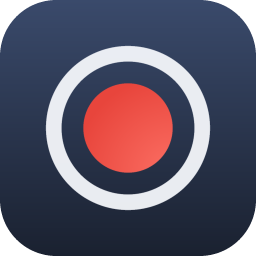
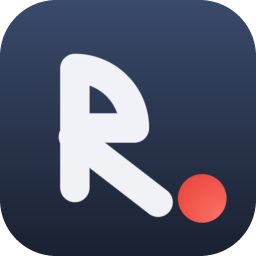
Simple Recorder v1.2.6

Changed region(s): [[0.1562, 0.1562, 0.9062, 0.875]]

diff --git a/AGENTS.md b/AGENTS.md
@@ -26,8 +26,8 @@ pushes from the dev repo to the public repo on its own.
 
 ## Layout
 
-- `assets/icon.png`, `assets/icon.ico`: the app icon (a slate plate, a white
-  record ring, a red dot). Both files are generated, never hand-edited:
+- `assets/icon.png`, `assets/icon.ico`: the app icon (a slate plate, a bold
+  white R monogram, a red record dot). Both files are generated, never hand-edited:
   `npm run icon` redraws them from `scripts/make-icon.cjs`, which computes
   the pixels, supersamples them for smooth edges, and encodes PNG and ICO
   itself (the .ico carries 16/24/32/48/64/128/256, bitmaps up to 48 and
